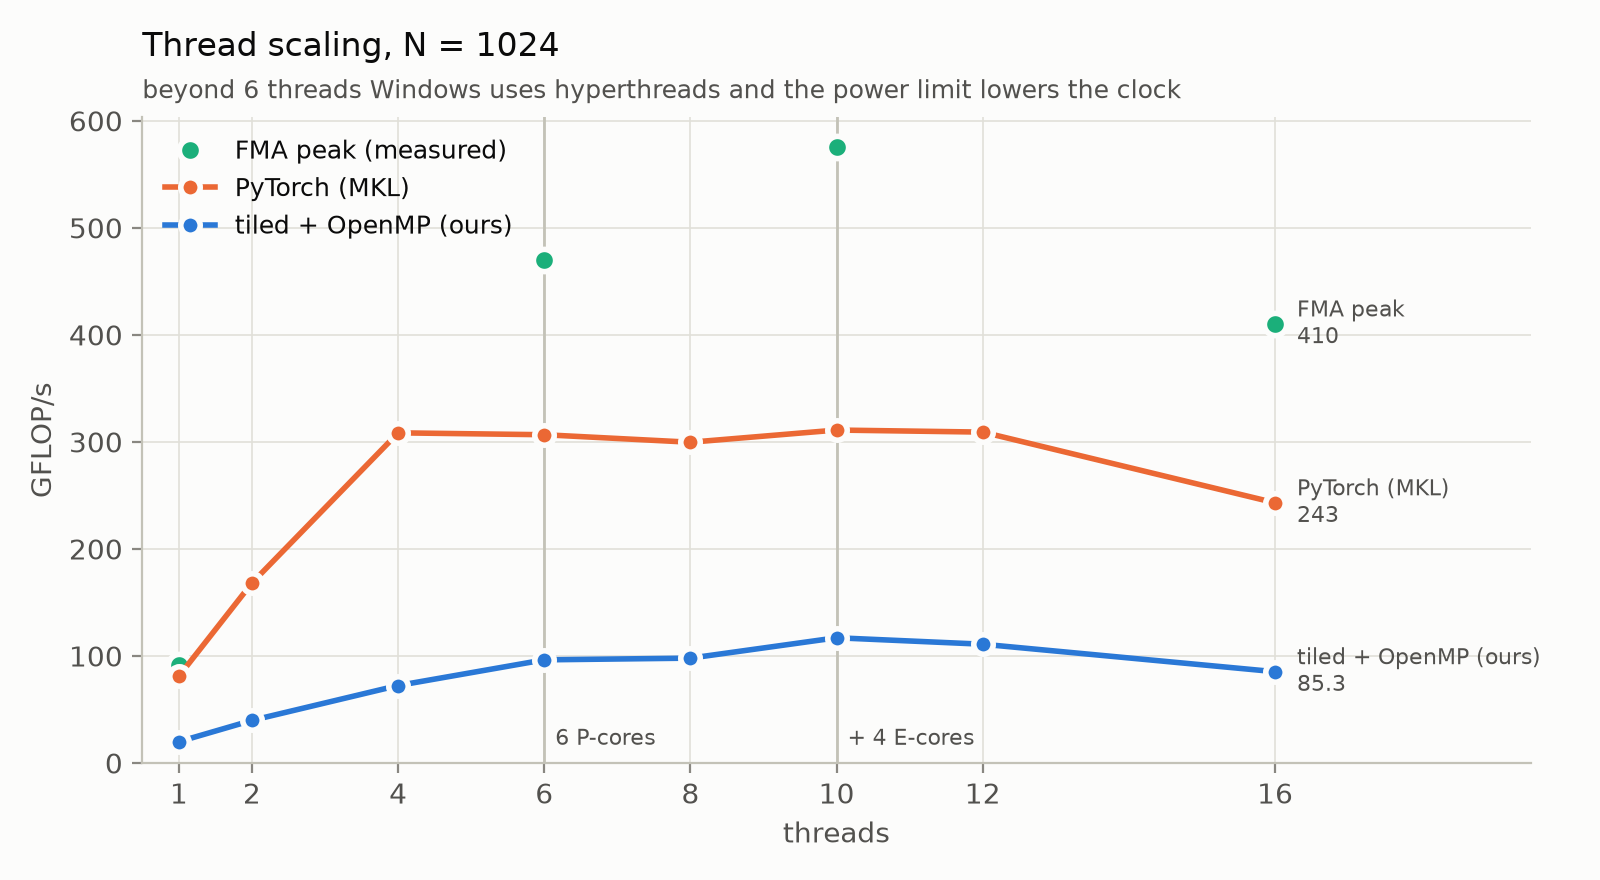
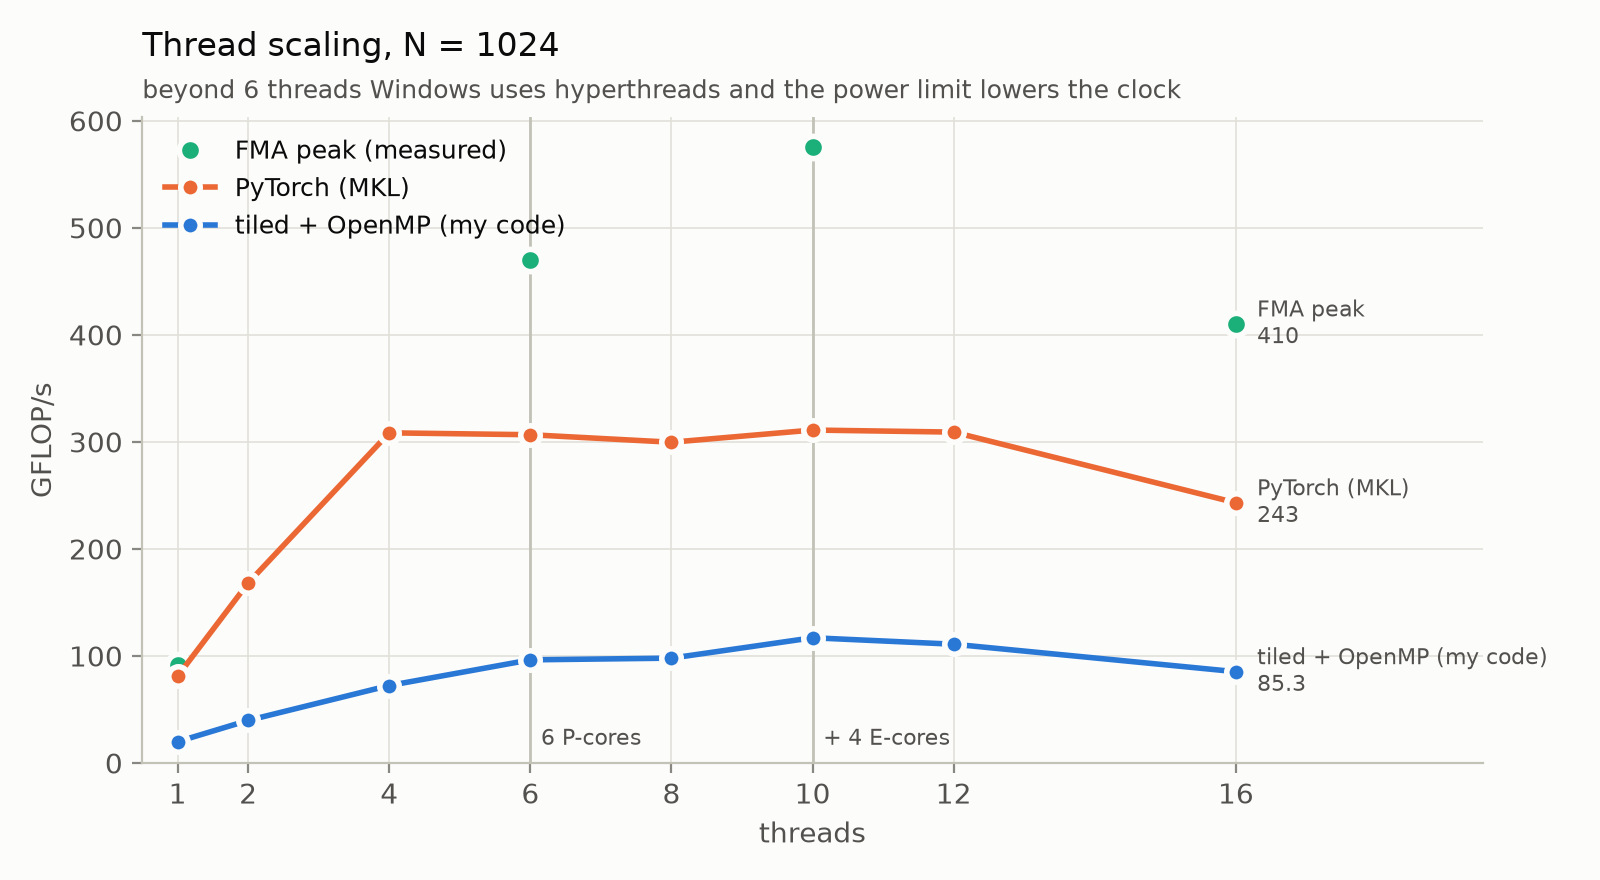
docs: refine README with TL;DR, limitations and first-person wording
- add a TL;DR with the honest headline numbers (N = 1000, 36x; MKL 3.4x ahead)
- add a limitations and next steps section: open questions, what they
  need (native Linux, perf, pinning), the micro-kernel as the next step
- shorten the thread scaling section and refer to the notes for details
- say 'my code' in the text and in the chart labels; regenerate charts

diff --git a/scripts/plot_results.py b/scripts/plot_results.py
@@ -18,7 +18,7 @@ import matplotlib.pyplot as plt  # noqa: E402
 from matplotlib.ticker import FixedLocator, FuncFormatter, NullLocator  # noqa: E402
 
 # Light-mode chart palette: surface, inks, hairlines, and categorical slots in fixed order
-# (slot 1 = our code / 1 thread, slot 2 = PyTorch / 6 threads, ...).
+# (slot 1 = my code / 1 thread, slot 2 = PyTorch / 6 threads, ...).
 SURFACE = "#fcfcfb"
 INK = "#0b0b0b"
 INK2 = "#52514e"
@@ -139,7 +139,7 @@ def chart_versions(cpp, torch, path, n=1024):
                 markeredgecolor=SURFACE, markeredgewidth=2, zorder=3)
         ax.text(g * 1.18, y, f"{fmt(g)}", va="center", fontsize=9, color=INK2)
     ax.set_yticks(ys, [r[0] for r in rows])
-    ax.axhline(1.5, color=AXIS, linewidth=0.8)  # our versions above, the BLAS reference below
+    ax.axhline(1.5, color=AXIS, linewidth=0.8)  # my versions above, the BLAS reference below
     for value, label in [(cpp.gflops(peak(1)), "FMA peak, 1 core"), (cpp.gflops(peak(6)), "FMA peak, 6 cores")]:
         ax.axvline(value, color=INK2, linewidth=1.0)
         ax.text(value, len(rows) - 0.45, f"{label}\n{value:.0f}", ha="center", va="bottom",
@@ -163,7 +163,7 @@ def chart_versions(cpp, torch, path, n=1024):
 
 def chart_threads(cpp, torch, path, n=1024):
     fig, ax = plt.subplots(figsize=(8, 4.4))
-    ours = [cpp.gflops(omp(n, p)) for p in THREADS]
+    mine = [cpp.gflops(omp(n, p)) for p in THREADS]
     mkl = [torch[("matmul", n, p)]["gflops"] for p in THREADS]
     peak_threads = [1, 6, 10, 16]
     peaks = [cpp.gflops(peak(p)) for p in peak_threads]
@@ -172,7 +172,7 @@ def chart_threads(cpp, torch, path, n=1024):
     ax.plot(peak_threads, peaks, "o", color=SLOTS[2], label="FMA peak (measured)", markersize=8,
             markeredgecolor=SURFACE, markeredgewidth=2)
     ax.text(16.3, peaks[-1], f"FMA peak\n{fmt(peaks[-1])}", va="center", fontsize=8, color=INK2)
-    for label, ys, color in [("PyTorch (MKL)", mkl, SLOTS[1]), ("tiled + OpenMP (ours)", ours, SLOTS[0])]:
+    for label, ys, color in [("PyTorch (MKL)", mkl, SLOTS[1]), ("tiled + OpenMP (my code)", mine, SLOTS[0])]:
         ax.plot(THREADS, ys, "-o", color=color, label=label, markeredgecolor=SURFACE, markeredgewidth=2)
         ax.text(16.3, ys[-1], f"{label}\n{fmt(ys[-1])}", va="center", fontsize=8, color=INK2)
     for x, text in [(6, "6 P-cores"), (10, "+ 4 E-cores")]:
@@ -233,7 +233,7 @@ def chart_roofline(cpp, torch, path, n=1024):
     points = [  # (label, AI, GFLOP/s, slot, label offset factors)
         ("bias + ReLU, 2 passes", 2 / 16, cpp.gflops(epilogue(4096, 6, 2)), 0, (1.15, 0.8)),
         ("bias + ReLU, fused", 2 / 8, cpp.gflops(epilogue(4096, 6, 1)), 0, (1.15, 0.9)),
-        ("matmul, ours", n / 6, cpp.gflops(omp(n, 6)), 0, (1.15, 0.85)),
+        ("matmul, my code", n / 6, cpp.gflops(omp(n, 6)), 0, (1.15, 0.85)),
         ("matmul, PyTorch (MKL)", n / 6, torch[("matmul", n, 6)]["gflops"], 1, (1.15, 0.95)),
     ]
     for label, ai, g, slot, (dx, dy) in points:
@@ -249,7 +249,7 @@ def chart_roofline(cpp, torch, path, n=1024):
     ax.yaxis.set_major_formatter(fmt_axis)
     ax.set_xlabel("arithmetic intensity (FLOP per byte of DRAM traffic, log)")
     ax.set_ylabel("GFLOP/s (log)")
-    ax.plot([], [], "o", color=SLOTS[0], label="our kernels")
+    ax.plot([], [], "o", color=SLOTS[0], label="my kernels")
     ax.plot([], [], "o", color=SLOTS[1], label="PyTorch (MKL)")
     ax.legend(loc="upper left", fontsize=9)
     title(ax, "Roofline, 6 threads (measured roofs)",

diff --git a/README.md b/README.md
@@ -1,5 +1,9 @@
 # matmul-bench
 
+**TL;DR:** my plain C++ and OpenMP kernels go from 2.6 to 92 GFLOP/s at N = 1000 (36×) on a
+laptop CPU; Intel MKL reaches 319 on the same 6 cores. The remaining ~3.4× comes from register
+blocking and packing, which the roofline and the measurements below explain.
+
 Step-by-step optimization of single-precision matrix multiplication (`C = A·B`, square,
 row-major float32) on a laptop CPU. Every step is **measured** (fixed seed, repetitions,
 median and coefficient of variation), **tested** against a reference within a rounding-error
@@ -37,7 +41,7 @@ Measured roofs on this machine: FMA peak **91 GFLOP/s on one core, 470 on six**;
 - **6 threads: 3.8× over the best single-threaded version.** Beyond 6 threads the OS puts the
   extra threads on hyperthreads (which share a core's load/store ports) and the power limit lowers
   the clock for everyone.
-- **MKL is 3.2× faster than our code with 1 thread and with 6.** The gap is the structure of the
+- **MKL is 3.2× faster than my code with 1 thread and with 6.** The gap is the structure of the
   kernel (register blocking, packing; see below), not more parallelism.
 - **Fusing bias + ReLU into the matmul gives no measurable speedup here.** The epilogue is 0.3%
   of the run time. Fusing the two elementwise passes with each other, on the other hand, halves
@@ -73,22 +77,15 @@ listed as an open question in the notes.
 | PyTorch / MKL (CV) | 81.1 (6%) | 168 (1%) | 308 (3%) | 307 (3%) | 300 (14%) | 311 (6%) | 309 (4%) | 243 (49%) |
 | FMA peak | 91.3 | | | 470 | | 576 | | 410 |
 
-- Each thread computes whole tiles of C, so there are no locks, no atomics and no shared writes,
-  and every element is summed in the same order: the result is identical bit for bit for any thread
-  count.
-- **2 threads give 2.0×.** After that the speedup flattens. Windows performance counters, read
-  during a diagnostic run (stage 4 notes), showed that 6 threads land one per P-core at ~3.1 GHz, threads 7–16 go mostly to hyperthread siblings, and the clock
-  drops to ~2.0 GHz at 16 threads (power limit). Even the pure-FMA benchmark is slower at 16
-  threads than at 10.
-- MKL stops scaling at 4 threads (~310 GFLOP/s, 65% of the 6-thread FMA peak). N = 1024 is a
-  7 ms problem at that speed; the power budget and per-thread overheads are likely causes, but
-  this was not diagnosed (no hardware counters under WSL2).
-- With a fixed amount of work per thread, the FMA benchmark reached only 299 GFLOP/s on 6 threads
-  instead of ~490: the slowest core (an E-core or a hyperthread sibling) sets the pace. Dynamic
-  scheduling fixes that.
-- The OpenMP version on one thread is slower than the serial tiled kernel (19.9 vs 25.3) despite an
-  identical inner loop. A measurement in stage 5 showed that two compiled copies of the same loop
-  can differ by 3–8%, which is the likely cause; not confirmed.
+- Each thread computes whole tiles of C: no locks, no atomics, no shared writes, and every
+  element is summed in the same order, so the result is identical bit for bit for any thread count.
+- **2 threads give 2.0×, then the curve flattens.** In a diagnostic run with Windows performance
+  counters (stage 4 notes), 6 threads landed one per P-core at ~3.1 GHz, threads 7–16 went mostly
+  to hyperthread siblings, and the clock fell to ~2.0 GHz at 16 threads (power limit). Work has to
+  be shared dynamically: with a fixed share per thread, the slowest core sets the pace, and the
+  FMA benchmark fell from ~470–490 to 299 GFLOP/s on 6 threads.
+- **MKL stops scaling at 4 threads** (~310 GFLOP/s, 65% of the 6-thread FMA peak). The cause was
+  not diagnosed (see Limitations).
 
 ### Fusion: when it pays off
 
@@ -99,7 +96,7 @@ applies bias and ReLU to each C tile right after its last k block, while it is s
 |---|---|---|---|---|
 | relu(A·B + bias), N=1024, final run | 1 | 93.0 ms (CV 9%) | 88.1 ms (CV 4%) | 1.06, within noise |
 | | 6 | 17.9 ms (CV 17%) | 17.0 ms (CV 19%) | 1.05, within noise |
-| same, dedicated run with 15 repetitions | 1 | 88.1 ms (CV 3%) | 88.9 ms (CV 3%) | 0.99 |
+| same, dedicated run with 15 repetitions (stage 5 notes) | 1 | 88.1 ms (CV 3%) | 88.9 ms (CV 3%) | 0.99 |
 | | 6 | 17.8 ms (CV 5%) | 18.4 ms (CV 17%) | 0.97 |
 | bias + ReLU alone, 4096² floats in DRAM | 1 | 17.0 ms | 8.3 ms | **2.05** |
 | | 6 | 7.8 ms | 4.2 ms | **1.86** |
@@ -129,32 +126,32 @@ measured on this machine. The ridge point is at 470 / 33 ≈ 14 FLOP/B.
   fused). They cannot compute faster, only move fewer bytes. Fusion moves the point to the right
   and doubles the attainable rate, and the measurement follows the roof.
 - **Matrix multiplication is far to the right of the ridge point** (AI ≈ N/6 ≈ 170 FLOP/B when
-  every matrix crosses DRAM once), so bandwidth limits neither implementation. Ours stays at 20%
+  every matrix crosses DRAM once), so bandwidth limits neither implementation. My kernel stays at 20%
   of the compute roof (28% on one core) because of its instruction mix, and MKL reaches 65% (89% on
   one core). The roofline shows that the gap is inside the core, not in memory.
 
 ## What BLAS does that this code does not
 
-MKL reaches 81 GFLOP/s on one core (89% of the measured FMA peak), where our best
+MKL reaches 81 GFLOP/s on one core (89% of the measured FMA peak), where my best
 single-threaded kernel reaches 25. High-performance GEMMs share a structure (Goto & van de Geijn,
 *Anatomy of High-Performance Matrix Multiplication*, 2008; the BLIS framework), and each part
 targets a limit that showed up in the measurements above:
 
 1. **Register blocking (micro-kernel).** A small block of C, for example 6×16 floats in 12 AVX2
    registers, stays in registers for the whole k loop. Each step loads 2 vectors of B and
-   broadcasts 6 elements of A for 12 FMAs, which is 0.67 loads per FMA and no stores. Our inner loop
+   broadcasts 6 elements of A for 12 FMAs, which is 0.67 loads per FMA and no stores. My inner loop
    needs 2 loads and 1 store per FMA. The 12 independent accumulators also hide the 4-cycle FMA
    latency on two FMA units, the same reason the peak benchmark uses 12 chains.
 2. **Packing.** Panels of A and B are copied into contiguous, aligned buffers in exactly the order
    the micro-kernel reads them. This gives unit stride and no TLB misses, and it removes the cache-set
-   conflicts that make our naive kernel 5× slower at N = 1024 than at N = 1000.
+   conflicts that make my naive kernel 5× slower at N = 1024 than at N = 1000.
 3. **Cache blocking on three levels.** A sliver of B stays in L1, a block of A in L2 and a panel
    of B in L3, with sizes derived from the cache parameters instead of one tile size for all.
 4. **Parallelism on the right loop.** Threads share a packed panel of B in L3. On top of that come
    prefetching, edge-case kernels and dispatch per microarchitecture (MKL selects its AVX2 path on
    this CPU).
 
-On accuracy, MKL's results stay within the same error bound as ours. The largest
+On accuracy, MKL's results stay within the same error bound as mine. The largest
 `|C − exact| / Σ|a·b|` is 0.8–2.6·10⁻⁷, against a bound of N·ε = 3·10⁻⁵ at N = 256.
 
 ## The same ideas on a spatial accelerator (Tenstorrent Tensix)
@@ -180,6 +177,21 @@ Sources: TT-Metalium documentation,
 [tiles](https://docs.tenstorrent.com/tt-metal/latest/tt-metalium/tt_metal/advanced_topics/tiles.html),
 [single-core matmul example](https://docs.tenstorrent.com/tt-metal/latest/tt-metalium/tt_metal/examples/matmul_single_core.html),
 [Metalium guide](https://github.com/tenstorrent/tt-metal/blob/main/METALIUM_GUIDE.md).
+
+## Limitations and next steps
+
+- **Open questions** (details in the notes):
+  - MKL stops scaling at 4 threads.
+  - The OpenMP kernel on one thread is 8–21% slower than the serial one, with an identical inner
+    loop. Stage 5 showed that two compiled copies of the same loop can differ by 3–8%, which makes
+    code layout the main suspect.
+  - Variants with a 256-float inner loop varied by up to 1.5× between sessions.
+- **What these need:** hardware counters and thread pinning, which WSL2 does not provide. The
+  next measurement belongs on native Linux, with `perf`, `OMP_PLACES` and RAPL power readings.
+- **Next optimization:** a 6×16 register-blocked AVX2 micro-kernel with packing. This step should
+  close most of the gap to MKL, with the measured FMA peak as the target.
+- **Scope:** square float32 matrices up to N = 1024 on one machine; no non-square shapes and no
+  bf16/int8.
 
 ## Methodology
 
